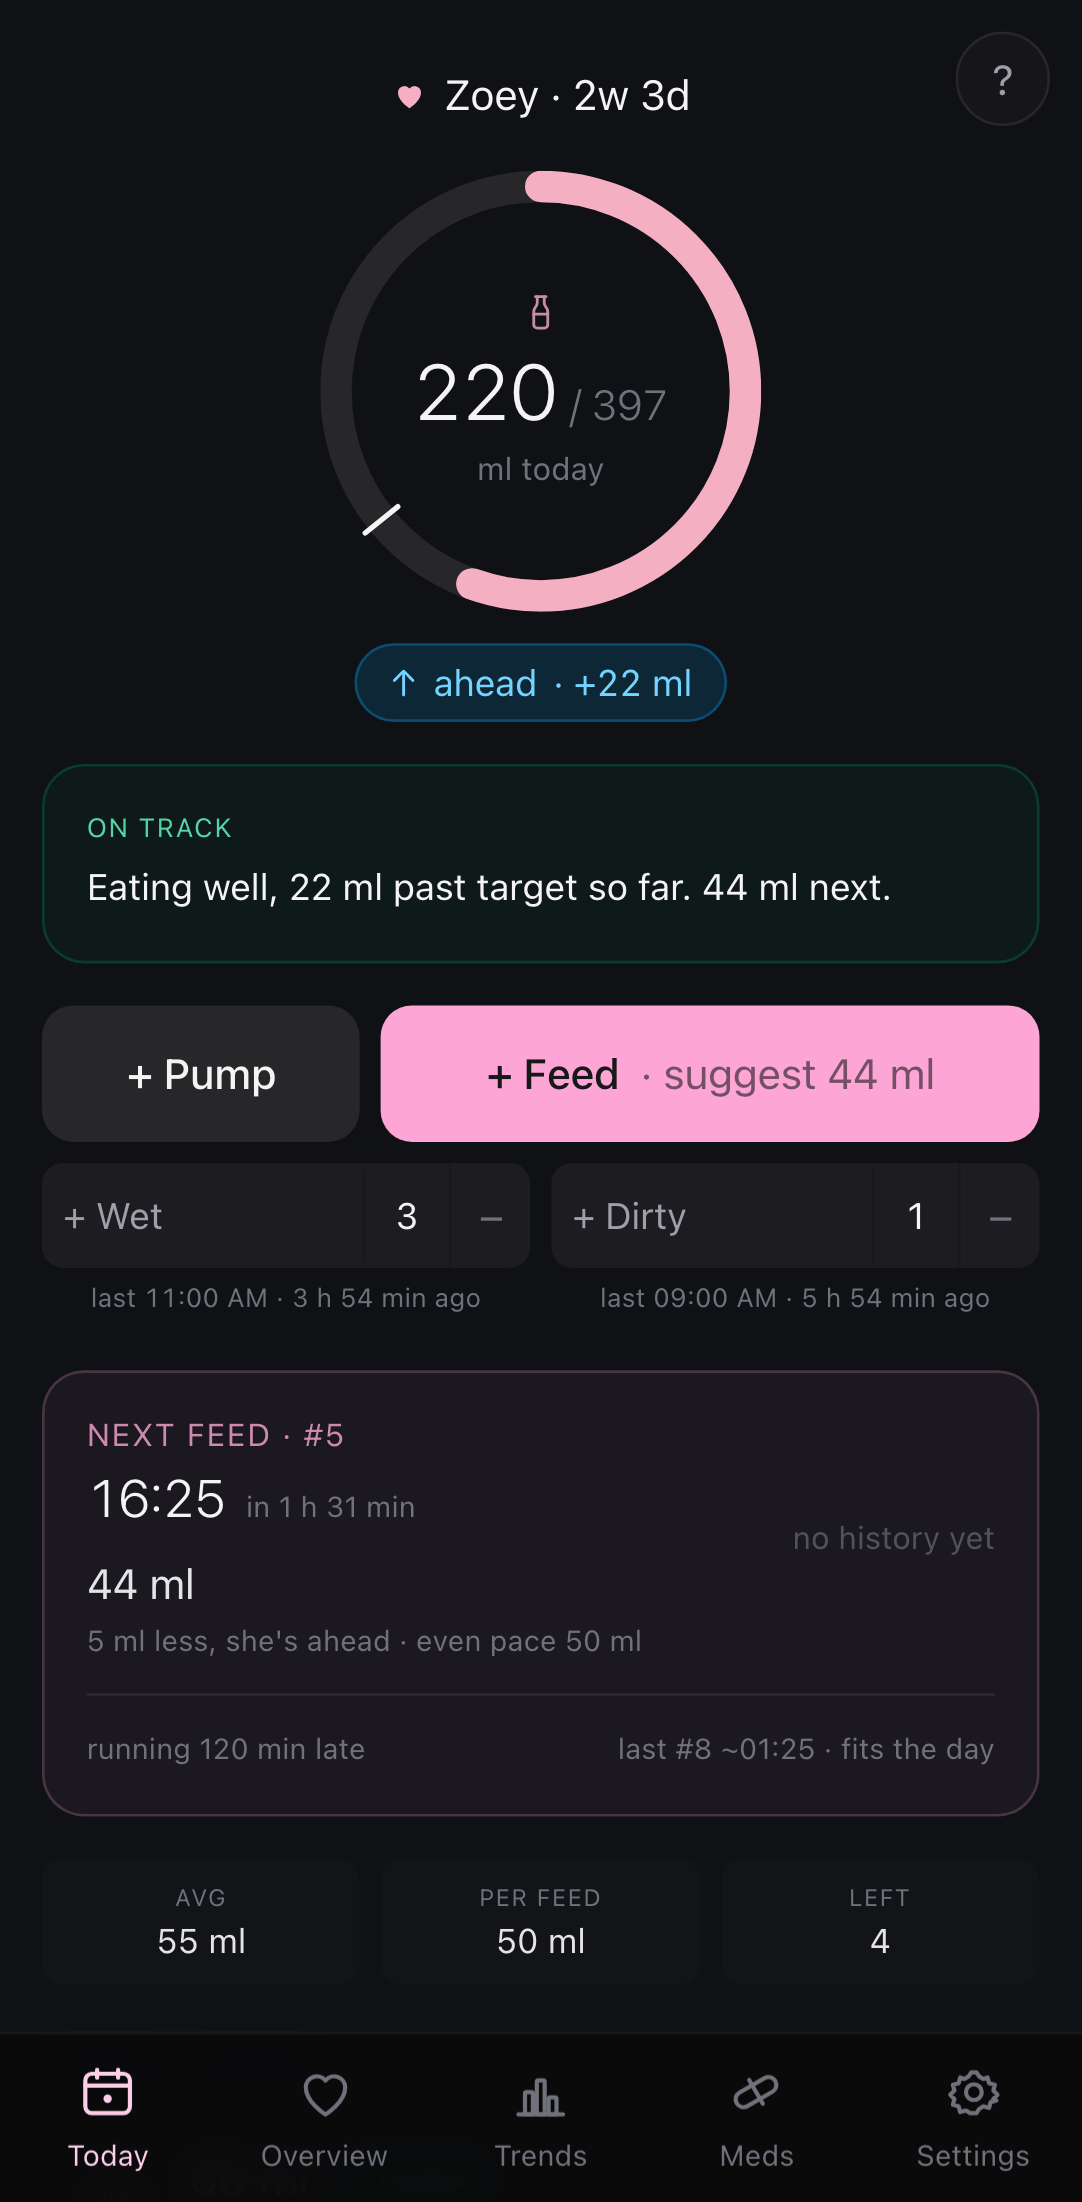
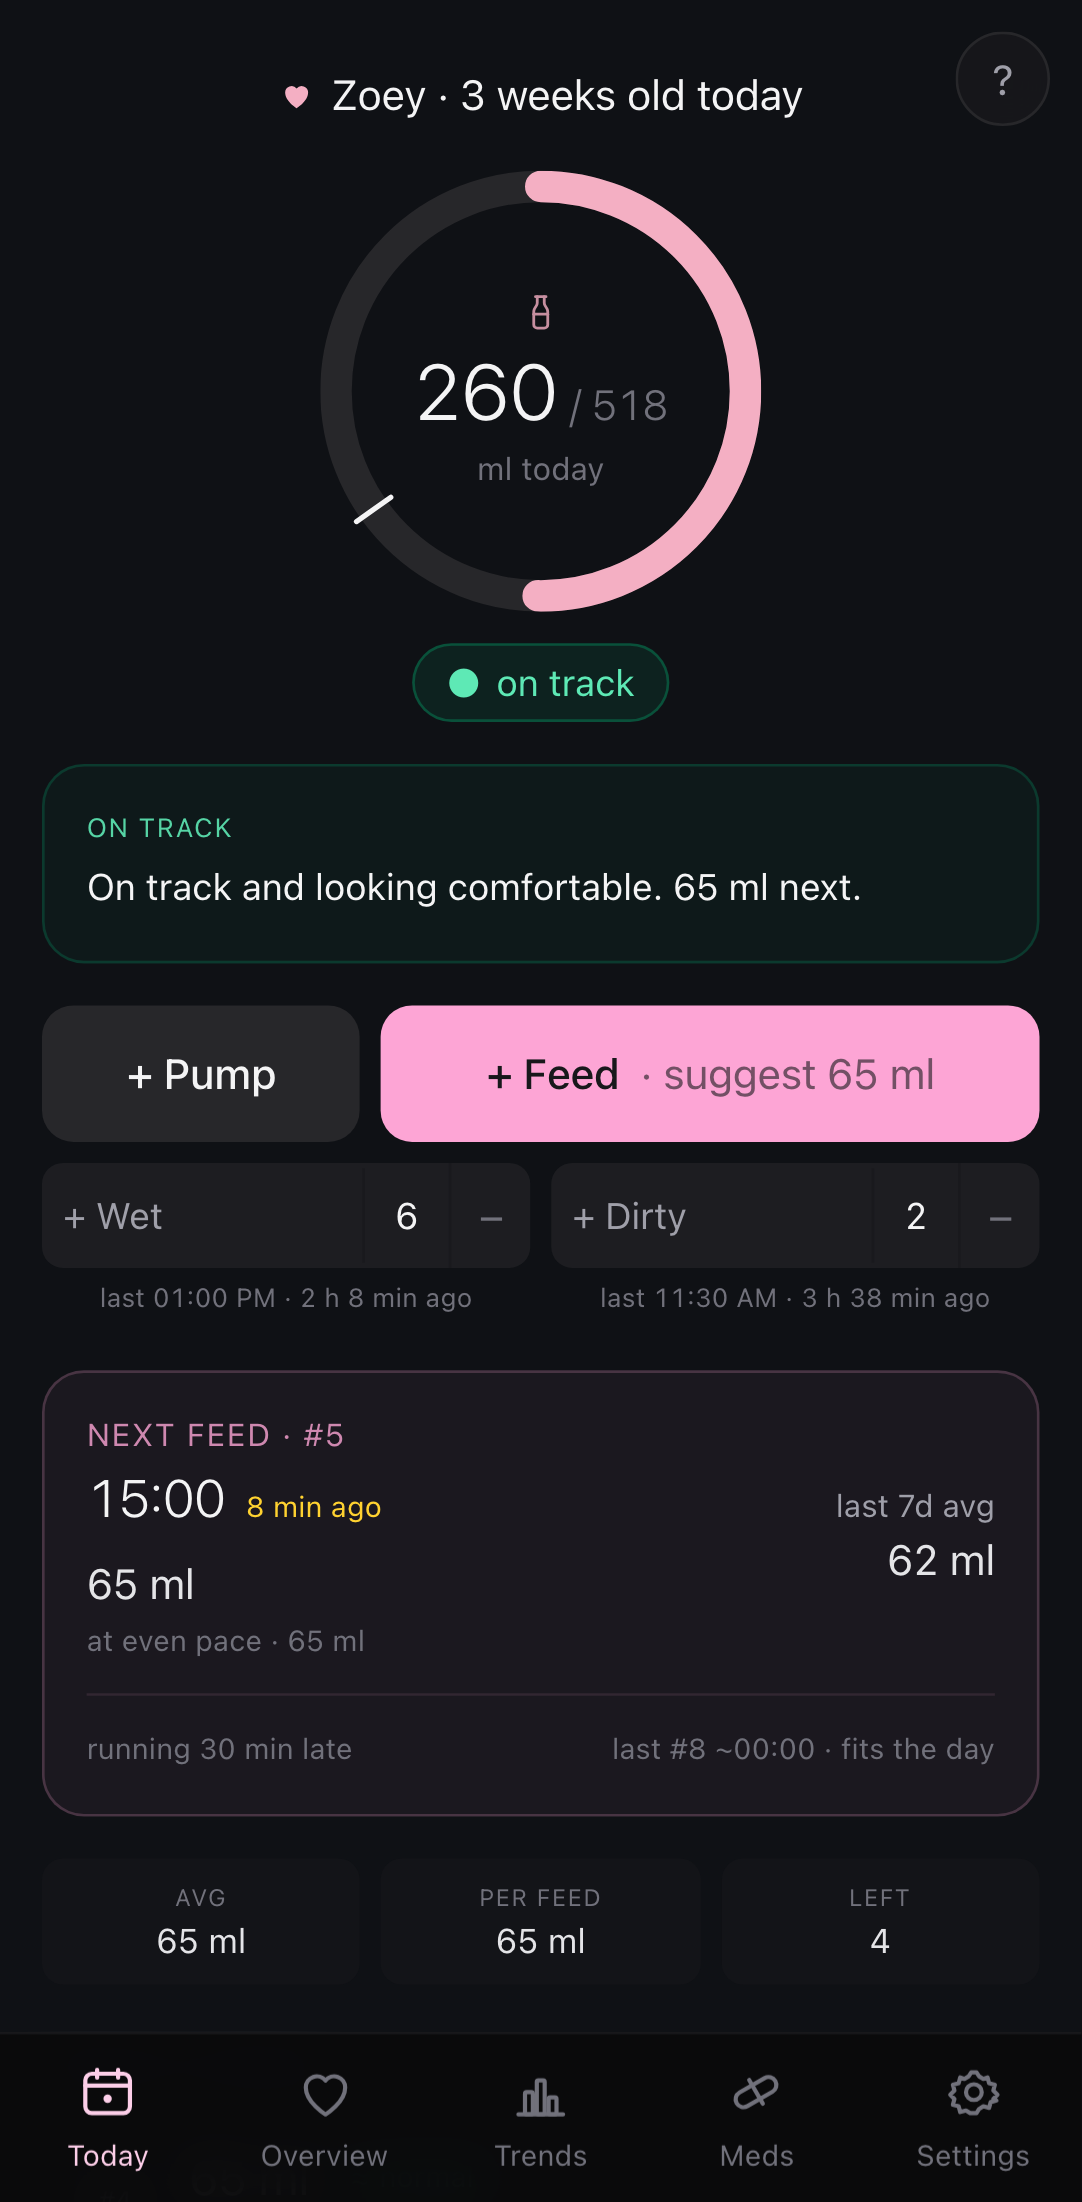
Demo seed: tune for healthy-looking screenshots, refresh docs/
The previous seed pulled feed targets from a single hard-coded
schedule, which under-fed Zoey relative to her growing weight and
made the README screenshots read as 'below target' / 'gain below
target' / 'flag at next visit' — alarming for a casual reader who
might think the screenshots reflect a real child's status.

Changes to e2e/seed-demo.ts:

  - Per-feed volume now scales with the day's interpolated weight
    so daily ml/kg/day stays flat at 165 (mid 'target zone' band)
    rather than drifting down as the kg denominator grows.
  - Weight trajectory anchored so the trailing 7-day gain lands at
    ~12 g/kg/day (Fenton 38w PMA expects 10-15) — the Overview
    growth indicator reads 'On track' instead of 'watch'.
  - 8-feed schedule moved off 00:00→23:30 so every historical
    feeding day lands all 8 feeds in one bucket (a 00:00 feed
    rolled into the previous feeding day, leaving each historical
    day with only 7 feeds and pulling the trends line down).
  - Diaper count bumped to 8 wet + 3 dirty/day so the Overview
    hydration indicator clears its threshold.
  - Pumps run 5/day across 14 days for a populated supply chart.

Screenshot tool gains a per-tab 'ready marker' wait so the screenshot
doesn't fire while TanStack Query's loading state is still on screen
(Overview was getting captured mid-spinner).

docs/screenshots/{today,overview,trends}.png regenerated against the
new seed: every status indicator now reads 'on track' / 'in target'.

diff --git a/e2e/seed-demo.ts b/e2e/seed-demo.ts
@@ -1,14 +1,16 @@
 /**
- * Seed a demo DB with realistic feeds + weights + diapers so the
- * README screenshots show a populated app rather than the empty
- * first-run state. Talks to the same backend the screenshot tool
- * uses (./e2e/serve.sh on :8081, passcode 9999).
+ * Seed a demo DB with realistic *thriving* data — the README
+ * screenshots are read by potential users, not by Zoey's doctor, and
+ * we don't want the example numbers to look like a child in trouble.
+ * Targets are tuned so all three Overview indicators land in 'good',
+ * the trends headline reads 'solidly in target zone', and the Today
+ * pace chip shows on-track. Talks to the same backend the screenshot
+ * tool uses (./e2e/serve.sh on :8081, passcode 9999).
  *
  *   npx tsx e2e/seed-demo.ts
  *
- * Idempotent-ish: appends; if the DB already has data the new rows
- * stack on top. Use a fresh DB (kill+restart serve.sh) if you want a
- * clean slate.
+ * Not idempotent: re-running stacks duplicate rows. Use a fresh DB
+ * (kill + restart serve.sh) for a clean slate.
  */
 
 import { chromium } from '@playwright/test'
@@ -44,11 +46,11 @@ async function main() {
     patch: (url: string, opts: { data: unknown }) => ctxRaw.patch(url, { ...opts, headers }),
   }
 
-  /* Set sensible birth context first so the PMA/age-aware bands
-   * have something realistic to chew on. 35w preterm, 17 days ago,
-   * 2455 g birth weight — typical numbers a viewer would recognise. */
+  /* Birth context — 35w preterm 21 days ago (PMA ≈ 38w, expected
+   * gain band 12–17 g/kg/day). Numbers a viewer recognises as
+   * "preterm but doing well". */
   const today = new Date()
-  const birth = new Date(today.getTime() - 17 * 86_400_000)
+  const birth = new Date(today.getTime() - 21 * 86_400_000)
   const birthIso = birth.toISOString().slice(0, 10)
   await ctx.patch(`${BASE_URL}/api/settings`, {
     data: {
@@ -58,30 +60,74 @@ async function main() {
     },
   })
 
-  /* Two manual weights so the auto-fill regenerator has a slope to
-   * extrapolate from; the rest of the days fill in automatically. */
-  const earlierWeight = await ctx.post(BASE_URL + '/api/weight', {
-    data: { weight_grams: 2280, ml_per_kg_per_day: 160, notes: 'imported from medical records' },
-  })
-  if (!earlierWeight.ok()) throw new Error(`earlier weight failed: ${earlierWeight.status()}`)
-
-  /* Backdate the first weight by patching its recorded_at (POST always
-   * uses now). */
-  const earlier = await earlierWeight.json()
-  const earlierAt = new Date(today.getTime() - 9 * 86_400_000).toISOString()
-  await ctx.patch(`${BASE_URL}/api/weight/${earlier.id}`, { data: { recorded_at: earlierAt } })
-
-  await ctx.post(BASE_URL + '/api/weight', {
-    data: { weight_grams: 2480, ml_per_kg_per_day: 160, notes: 'morning weigh-in' },
-  })
-
-  /* Today's feeds — a typical day pattern of ~50 ml every 3 hours
-   * starting at 04:00, ending at 13:00 (so the day is in progress and
-   * the progress ring + next-feed card both have something to show). */
-  const feedTimes = [
-    [4, 30, 45], [7, 35, 60], [10, 30, 55], [13, 25, 60],
+  /* Weight trajectory aimed so the trailing 7-day gain rate lands at
+   * ~12 g/kg/day — solidly inside the 10–15 band the Fenton/AAP
+   * tables expect at PMA 38w, so the Overview growth indicator reads
+   * 'On track' rather than 'watch'. The auto-fill regenerator
+   * interpolates the days between for the headline 'estimated'
+   * display. */
+  type W = { grams: number; daysAgo: number; notes: string }
+  const weights: W[] = [
+    { grams: 2680, daysAgo: 14, notes: 'discharge weigh-in' },
+    { grams: 2880, daysAgo: 7, notes: 'one-week check' },
+    { grams: 3140, daysAgo: 0, notes: 'morning weigh-in' },
   ]
-  for (const [h, m, ml] of feedTimes) {
+  for (const w of weights) {
+    const r = await ctx.post(BASE_URL + '/api/weight', {
+      data: { weight_grams: w.grams, ml_per_kg_per_day: 165, notes: w.notes },
+    })
+    if (!r.ok()) throw new Error(`weight ${w.grams} failed: ${r.status()}`)
+    /* Backdate non-today rows. */
+    if (w.daysAgo > 0) {
+      const id = (await r.json()).id
+      const at = new Date(today.getTime() - w.daysAgo * 86_400_000)
+      at.setHours(9, 0, 0, 0)
+      await ctx.patch(`${BASE_URL}/api/weight/${id}`, { data: { recorded_at: at.toISOString() } })
+    }
+  }
+
+  /* Daily feed schedule: 8 feeds q3h. Per-feed volume scales with
+   * weight so the headline ml/kg/day stays flat as Zoey grows —
+   * otherwise the trends-tab narrative reads "trending down" purely
+   * because the kg denominator is increasing. Helper picks a base
+   * volume from the day's interpolated weight to keep ~165
+   * ml/kg/day. */
+  /* All eight feeds within the same feeding day (anchor 02:30) — a
+   * 00:00 feed would bucket into the *previous* feeding day, leaving
+   * each historical day with 7 feeds and pulling the trends sparkline
+   * down ~10 ml/kg/day vs. the no-rollover days. The 23:30 slot keeps
+   * everything in one bucket. */
+  const baseHours: Array<[number, number]> = [
+    [3, 0], [6, 0], [9, 0], [12, 0], [15, 0], [18, 0], [21, 0], [23, 30],
+  ]
+  function feedsForDay(daysAgo: number): Array<[number, number, number]> {
+    /* Linear interp between known weights for the per-feed kg. */
+    const points = [
+      { daysAgo: 21, kg: 2.455 },
+      { daysAgo: 14, kg: 2.680 },
+      { daysAgo: 7, kg: 2.880 },
+      { daysAgo: 0, kg: 3.140 },
+    ]
+    let kg = points[points.length - 1].kg
+    for (let i = 0; i < points.length - 1; i++) {
+      const a = points[i], b = points[i + 1]
+      if (daysAgo <= a.daysAgo && daysAgo >= b.daysAgo) {
+        const t = (a.daysAgo - daysAgo) / (a.daysAgo - b.daysAgo)
+        kg = a.kg + (b.kg - a.kg) * t
+        break
+      }
+    }
+    const dailyMl = 165 * kg
+    const perFeed = Math.round(dailyMl / 8)
+    return baseHours.map(([h, m]) => [h, m, perFeed])
+  }
+  const fullDay = feedsForDay(0)
+
+  /* Today: only the early-morning + mid-day feeds done so the
+   * progress ring is partway and the 'next feed' card has work to
+   * show. Picking the four feeds that land before ~13:30. */
+  const todayFeeds = fullDay.filter(([h]) => h >= 3 && h <= 12)
+  for (const [h, m, ml] of todayFeeds) {
     const at = new Date()
     at.setHours(h, m, 0, 0)
     if (at > today) at.setDate(at.getDate() - 1)
@@ -90,30 +136,60 @@ async function main() {
     })
   }
 
-  /* A handful of diapers so the Today counters aren't all zero. */
-  for (const [h, m, kind] of [[5, 0, 'wet'], [8, 0, 'wet'], [11, 0, 'wet'], [9, 0, 'dirty']] as const) {
+  /* Diapers — 7 wet + 2 dirty so far today (well above the 6-wet
+   * hydration floor the Overview indicator looks for). */
+  const todayDiapers: Array<[number, number, 'wet' | 'dirty']> = [
+    [3, 30, 'wet'], [5, 0, 'wet'], [6, 30, 'wet'], [8, 0, 'dirty'],
+    [9, 30, 'wet'], [11, 0, 'wet'], [11, 30, 'dirty'], [12, 30, 'wet'], [13, 0, 'wet'],
+  ]
+  for (const [h, m, kind] of todayDiapers) {
     const at = new Date()
     at.setHours(h, m, 0, 0)
     if (at > today) at.setDate(at.getDate() - 1)
     await ctx.post(BASE_URL + '/api/diapers', { data: { kind, recorded_at: at.toISOString() } })
   }
 
-  /* A few pumps for the supply chart. */
-  for (let day = 0; day < 7; day++) {
-    for (const [h, m, ml] of [[6, 0, 90], [12, 0, 75], [18, 0, 80], [22, 0, 70]] as const) {
+  /* Pumps — 5/day, total ~520 ml so the supply chart trends near
+   * intake (slightly above, building a small reserve). */
+  for (let day = 0; day < 14; day++) {
+    for (const [h, m, ml] of [[6, 0, 110], [10, 0, 100], [14, 0, 105], [19, 0, 110], [23, 0, 95]] as const) {
       const at = new Date(today.getTime() - day * 86_400_000)
       at.setHours(h, m, 0, 0)
       await ctx.post(BASE_URL + '/api/pumps', { data: { amount_ml: ml, pumped_at: at.toISOString() } })
     }
   }
 
-  /* Backdate feeds across the last 7 days too so per-feed-of-day
-   * comparisons have history. */
-  for (let day = 1; day <= 7; day++) {
-    for (const [h, m, ml] of feedTimes) {
+  /* Backdate the full 8-feed schedule across the last 14 days so the
+   * Trends grid + per-feed-of-day comparisons + sparkline all have
+   * history. Per-feed volume is sized for that day's weight so
+   * ml/kg/day stays flat. Small random jitter so the grid doesn't
+   * read as obviously synthetic. */
+  for (let day = 1; day <= 14; day++) {
+    const daySchedule = feedsForDay(day)
+    for (const [h, m, ml] of daySchedule) {
       const at = new Date(today.getTime() - day * 86_400_000)
       at.setHours(h, m, 0, 0)
-      await ctx.post(BASE_URL + '/api/feeds', { data: { amount_ml: ml + Math.round((Math.random() - 0.5) * 8), fed_at: at.toISOString(), method: 'bottle' } })
+      /* No jitter: small day-over-day fluctuations push the
+       * trends-tab "trending down" detector over its 5 ml/kg/day
+       * threshold even when the underlying schedule is flat. */
+      await ctx.post(BASE_URL + '/api/feeds', {
+        data: { amount_ml: ml, fed_at: at.toISOString(), method: 'bottle' },
+      })
+    }
+  }
+
+  /* Diapers across the last 14 days too — 8 wet + 3 dirty, tilted
+   * toward 'in target' for the Hydration indicator. */
+  for (let day = 1; day <= 14; day++) {
+    const pattern: Array<[number, number, 'wet' | 'dirty']> = [
+      [3, 30, 'wet'], [6, 0, 'wet'], [8, 0, 'dirty'], [9, 30, 'wet'],
+      [12, 0, 'wet'], [14, 30, 'wet'], [16, 0, 'dirty'], [18, 0, 'wet'],
+      [20, 30, 'wet'], [23, 0, 'dirty'], [1, 0, 'wet'],
+    ]
+    for (const [h, m, kind] of pattern) {
+      const at = new Date(today.getTime() - day * 86_400_000)
+      at.setHours(h, m, 0, 0)
+      await ctx.post(BASE_URL + '/api/diapers', { data: { kind, recorded_at: at.toISOString() } })
     }
   }
 

diff --git a/e2e/screenshot.ts b/e2e/screenshot.ts
@@ -28,6 +28,19 @@ const TAB_LABELS: Record<string, RegExp> = {
   settings: /^Settings/,
 }
 
+/** Per-tab marker that only appears once the screen has finished
+ *  fetching + rendering. Without this the screenshot fires while
+ *  'Loading…' is still on screen, because TanStack Query's idle
+ *  state precedes the data render by a few frames. Markers picked
+ *  to be above-the-fold so they're in the visible viewport. */
+const READY_MARKERS: Record<string, RegExp> = {
+  today: /ml today/,
+  overview: /How is .* doing\?/,
+  trends: /\d+\s+ml\/kg\/day|No feeds logged yet/,
+  meds: /^TODAY$/,
+  settings: /^Settings$/,
+}
+
 async function main() {
   const requested = process.argv.slice(2)
   const tabs = requested.length ? requested : Object.keys(TAB_LABELS)
@@ -54,6 +67,9 @@ async function main() {
   for (const tab of tabs) {
     await page.getByRole('button', { name: TAB_LABELS[tab] }).click()
     await page.waitForLoadState('networkidle')
+    /* Wait for tab-specific content; networkidle fires before TanStack
+     * Query's data render lands. */
+    await page.getByText(READY_MARKERS[tab]).first().waitFor({ timeout: 8_000 })
     const out = path.join(OUT_DIR, `${tab}.png`)
     await page.screenshot({ path: out, fullPage: false })
     console.log(`✓ ${tab} → ${path.relative(process.cwd(), out)}`)